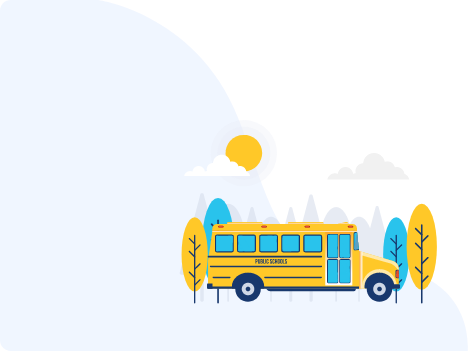
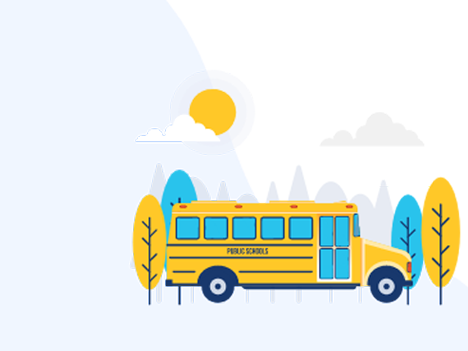
login fields ui

diff --git a/src/app/auth/components/login/login.component.html b/src/app/auth/components/login/login.component.html
@@ -9,21 +9,16 @@
 
   <div class="right-section">
     <div class="fields-container">
-      <div class="login-title" [hidden]="forgotPassword" translate>Login</div>
-      <div class="forgot-title" [hidden]="!forgotPassword" translate>Forgot password</div>
+      <div class="login-title" [hidden]="forgotPassword" translate></div>
+      <!--      <div class="forgot-title" [hidden]="!forgotPassword" translate>Forgot password</div>-->
       <form (ngSubmit)="login()" [formGroup]="loginForm" [hidden]="forgotPassword" novalidate>
         <div class="login-error" [hidden]="!error || isLoading" translate>
           email or password incorrect.
         </div>
         <br />
         <div class="login-fields" fxLayout="column">
-          <!--          <mat-form-field appearance="outline">-->
-          <!--            <mat-label>Outline form field</mat-label>-->
-          <!--            <input matInput placeholder="Placeholder">-->
-          <!--            <mat-icon matSuffix>sentiment_very_satisfied</mat-icon>-->
-          <!--            <mat-hint>Hint</mat-hint>-->
-          <!--          </mat-form-field>-->
-
+          <span class="welcome-msg">Welcome to school name</span>
+          <span class="login-msg">Log In</span>
           <mat-form-field [hideRequiredMarker]="true" appearance="outline">
             <mat-label>{{ 'validations.login.username' | translate }}</mat-label>
             <input
@@ -61,7 +56,7 @@
               <span translate>Password is required</span>
             </mat-error>
           </mat-form-field>
-          <mat-checkbox class="checkBox" formControlName="remember" translate>Remember me</mat-checkbox>
+          <!--          <mat-checkbox class="checkBox" formControlName="remember" translate>Remember me</mat-checkbox>-->
           <br />
           <button
             class="login-btn"
@@ -73,50 +68,50 @@
           >
             <span translate>Login</span>
           </button>
-          <div class="forget-password">
-            <img src="../../../../assets/password-reset.png" class="pass-reset" />
-            <a class="underline-none" href="javascript:" (click)="forgotPassword = !forgotPassword">
-              {{ 'forget_password' | translate }}
-            </a>
-          </div>
+          <!--          <div class="forget-password">-->
+          <!--            <img src="../../../../assets/password-reset.png" class="pass-reset"/>-->
+          <!--            <a class="underline-none" href="javascript:" (click)="forgotPassword = !forgotPassword">-->
+          <!--              {{ 'forget_password' | translate }}-->
+          <!--            </a>-->
+          <!--          </div>-->
         </div>
       </form>
 
-      <form (ngSubmit)="resetPassword()" [formGroup]="forgetForm" [hidden]="!forgotPassword" novalidate>
-        <div class="login-error" [hidden]="!error || isLoading" translate>
-          {{ this.error }}
-        </div>
-        <br />
-        <div class="login-fields" fxLayout="column">
-          <mat-form-field [hideRequiredMarker]="true">
-            <input
-              type="text"
-              matInput
-              formControlName="email"
-              autocomplete="email"
-              [placeholder]="'Email' | translate"
-              required
-            />
-            <mat-error *ngIf="forgetForm.controls.email.invalid && forgetForm.controls.email.touched">
-              <span translate>Email is required</span>
-            </mat-error>
-          </mat-form-field>
-          <br />
-          <button
-            class="reset-btn"
-            mat-raised-button
-            color="primary"
-            type="submit"
-            [disabled]="(forgetForm.invalid && forgetForm.controls.email.touched) || isLoading"
-            [ngClass]="{ disabled: (forgetForm.invalid && forgetForm.controls.email.touched) || isLoading }"
-          >
-            <span translate>Send</span>
-          </button>
-        </div>
-      </form>
+      <!--      <form (ngSubmit)="resetPassword()" [formGroup]="forgetForm" [hidden]="!forgotPassword" novalidate>-->
+      <!--        <div class="login-error" [hidden]="!error || isLoading" translate>-->
+      <!--          {{ this.error }}-->
+      <!--        </div>-->
+      <!--        <br/>-->
+      <!--        <div class="login-fields" fxLayout="column">-->
+      <!--          <mat-form-field [hideRequiredMarker]="true">-->
+      <!--            <input-->
+      <!--              type="text"-->
+      <!--              matInput-->
+      <!--              formControlName="email"-->
+      <!--              autocomplete="email"-->
+      <!--              [placeholder]="'Email' | translate"-->
+      <!--              required-->
+      <!--            />-->
+      <!--            <mat-error *ngIf="forgetForm.controls.email.invalid && forgetForm.controls.email.touched">-->
+      <!--              <span translate>Email is required</span>-->
+      <!--            </mat-error>-->
+      <!--          </mat-form-field>-->
+      <!--          <br/>-->
+      <!--          <button-->
+      <!--            class="reset-btn"-->
+      <!--            mat-raised-button-->
+      <!--            color="primary"-->
+      <!--            type="submit"-->
+      <!--            [disabled]="(forgetForm.invalid && forgetForm.controls.email.touched) || isLoading"-->
+      <!--            [ngClass]="{ disabled: (forgetForm.invalid && forgetForm.controls.email.touched) || isLoading }"-->
+      <!--          >-->
+      <!--            <span translate>Send</span>-->
+      <!--          </button>-->
+      <!--        </div>-->
+      <!--      </form>-->
     </div>
     <div class="login-footer-img">
-      <img src="../../../../assets/Component 4 – 1.png" alt="BUS" />
+      <img src="../../../../assets/Component 4 – 2.png" alt="BUS" />
     </div>
   </div>
 </div>

diff --git a/src/app/auth/components/login/login.component.scss b/src/app/auth/components/login/login.component.scss
@@ -14,8 +14,9 @@ form {
   z-index: 5;
   background: rgb(255, 255, 255);
   background: linear-gradient(0deg, white 0%, white 35%, rgba(255, 255, 255, 0) 80%);
-  //linear-gradient(0deg, white 0%, white 35%, rgba(255, 255, 255, 0) 80%)
   padding: 10px;
+  width: 40%;
+  height: 60%;
 }
 
 .login-container,
@@ -29,9 +30,10 @@ form {
 }
 
 .login-fields {
-  margin-right: 180px;
+  //margin-right: 180px;
   width: 80%;
   margin-top: 75%;
+
   &.login-fields > :not(:last-child) {
     margin-bottom: 8px;
   }
@@ -111,11 +113,11 @@ form {
   }
 
   .login-btn {
-    width: 10rem;
+    width: 100%;
     height: 3rem;
     font-size: large;
     text-transform: uppercase;
-    background-color: #5069e4;
+    background-color: #0063f4;
   }
 
   .reset-btn {
@@ -125,13 +127,13 @@ form {
     background-color: #5069e4;
   }
 
-  .login-title {
-    text-transform: uppercase;
-    // letter-spacing: 0.2rem;
-    color: #131b31;
-    font-size: 32px;
-    font-weight: 700;
-  }
+  //.login-title {
+  //  text-transform: uppercase;
+  //  // letter-spacing: 0.2rem;
+  //  color: #131b31;
+  //  font-size: 32px;
+  //  font-weight: 700;
+  //}
 
   .forgot-title {
     // letter-spacing: 0.1rem;
@@ -164,11 +166,26 @@ form {
   bottom: 5px;
   left: 0;
   overflow: hidden;
+  z-index: 4;
 
   img {
     position: absolute;
     bottom: -30px;
-    left: -160px;
+    left: -130px;
     z-index: 5;
   }
+}
+
+.welcome-msg,
+.login-msg {
+  font-size: 20px;
+  font-weight: bold;
+
+  &.login-msg {
+    color: #0063f4;
+  }
+}
+
+.mat-form-field-wrapper {
+  padding-bottom: 0 !important;
 }
